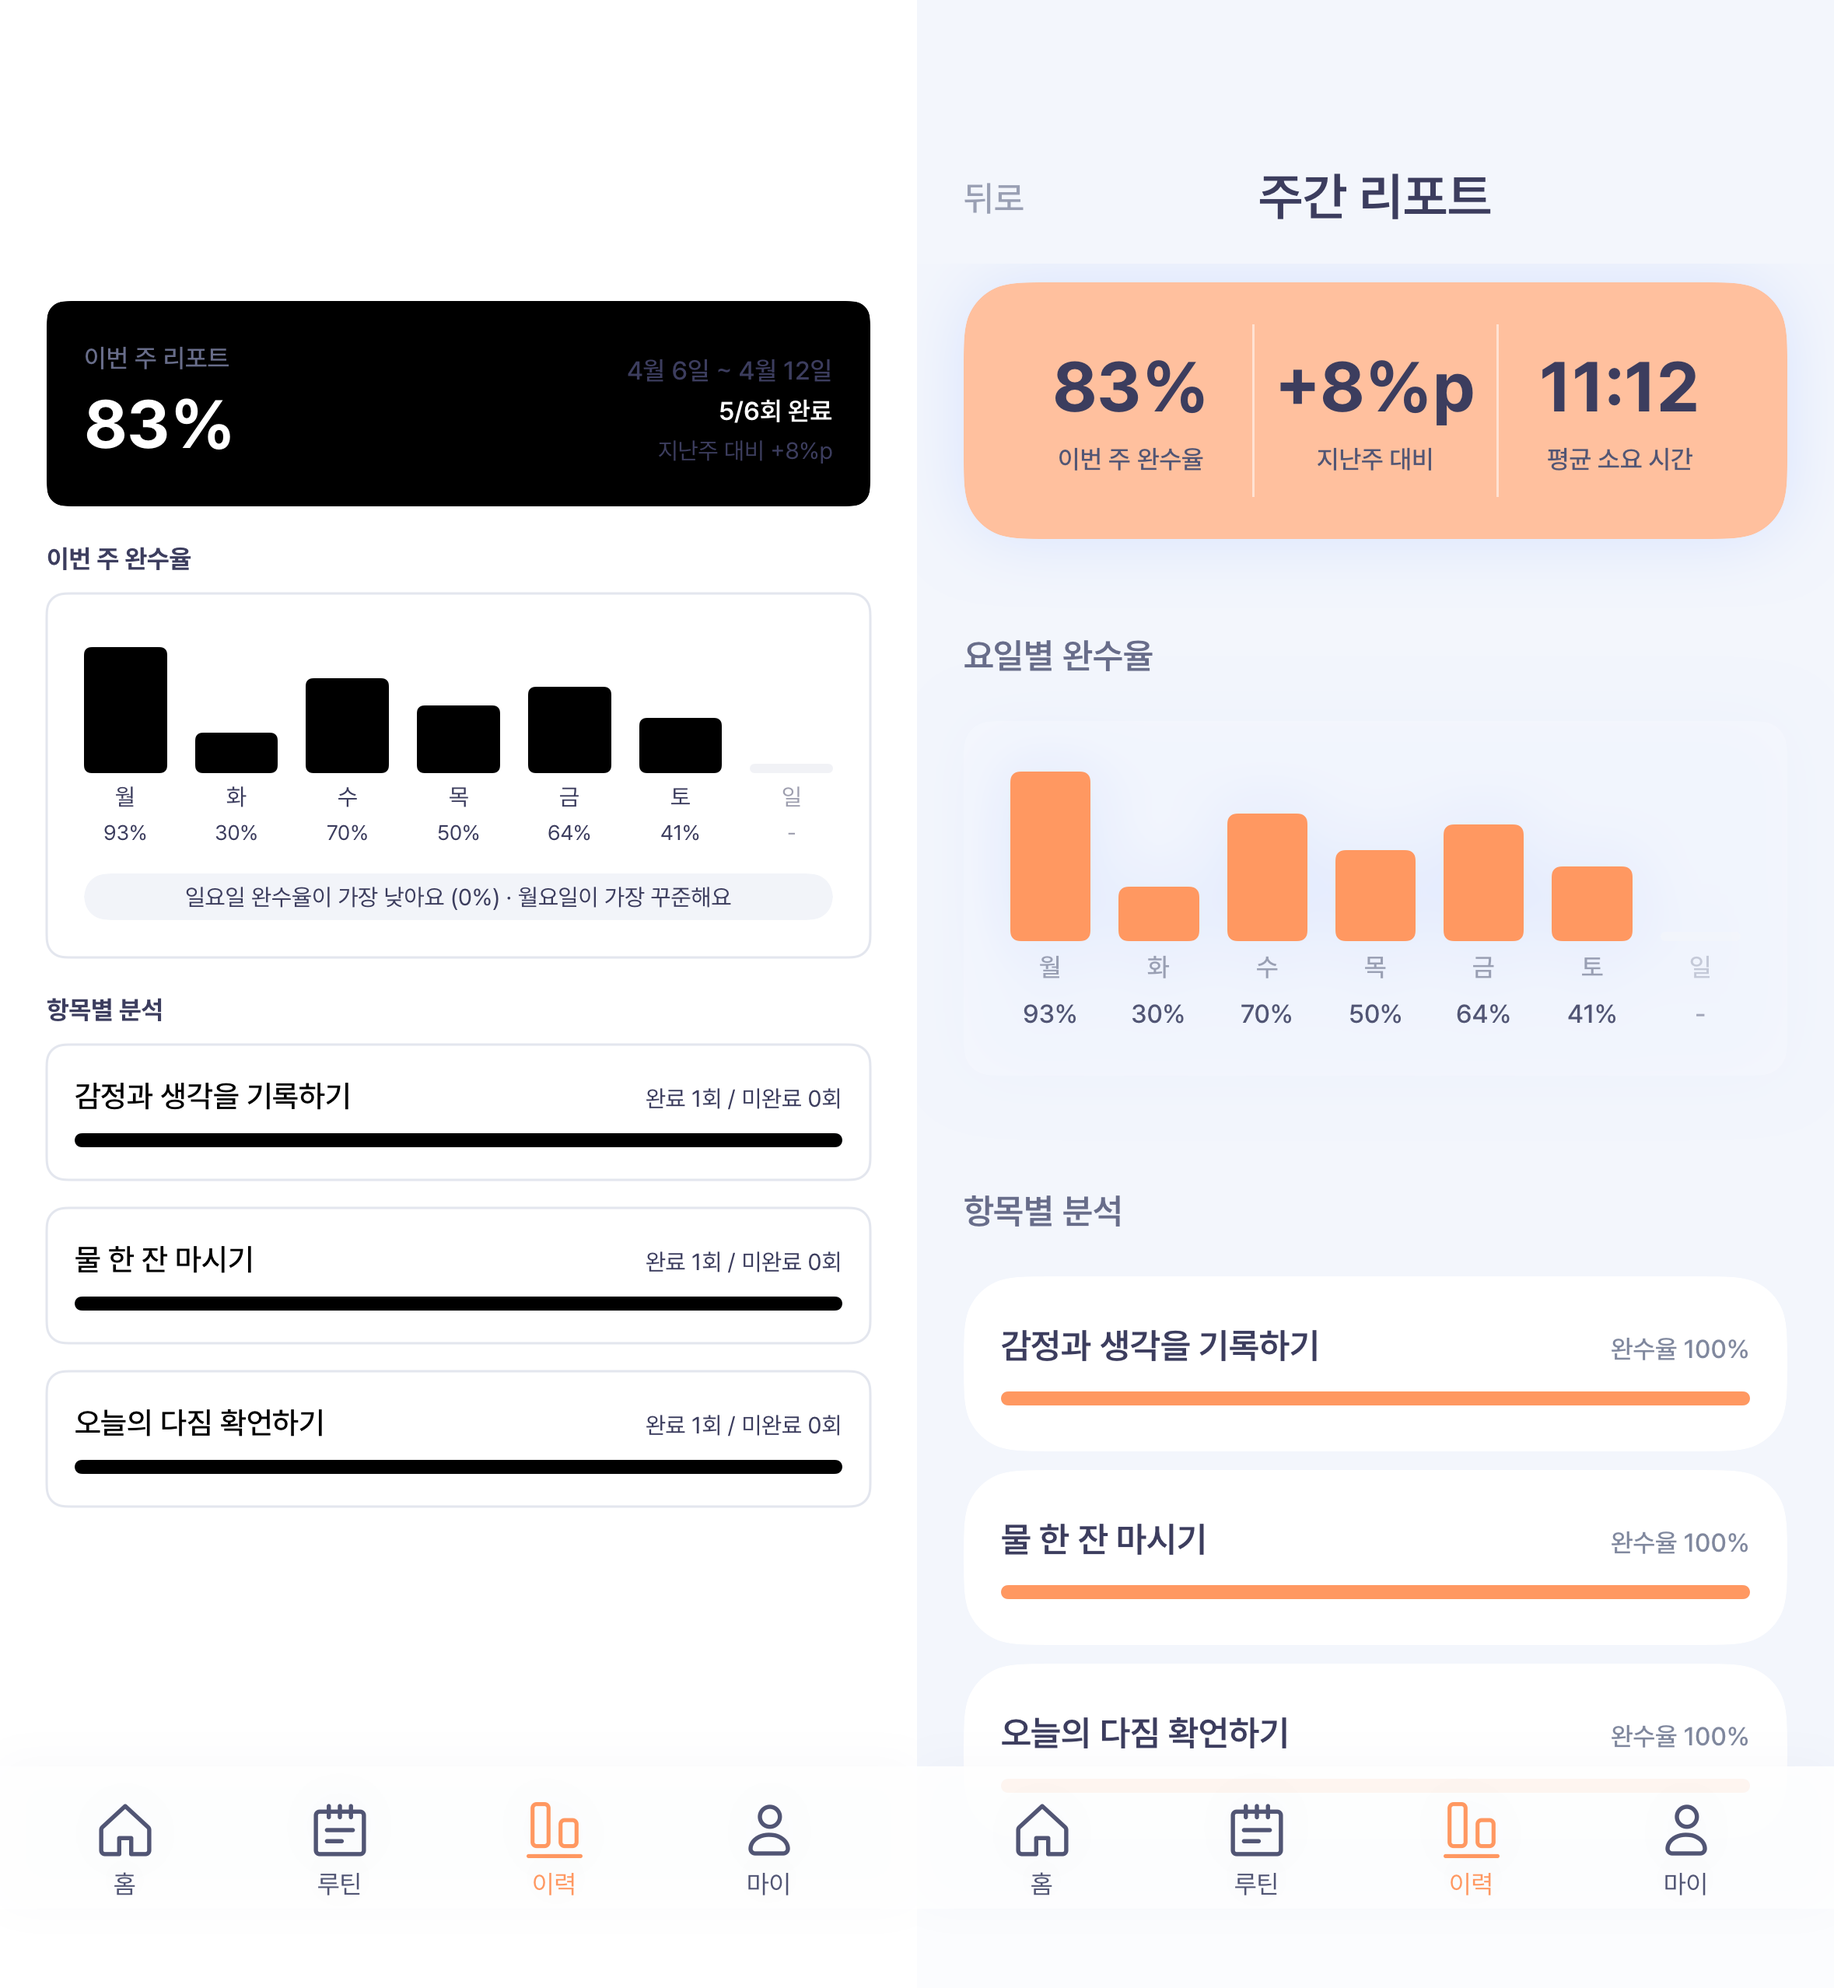
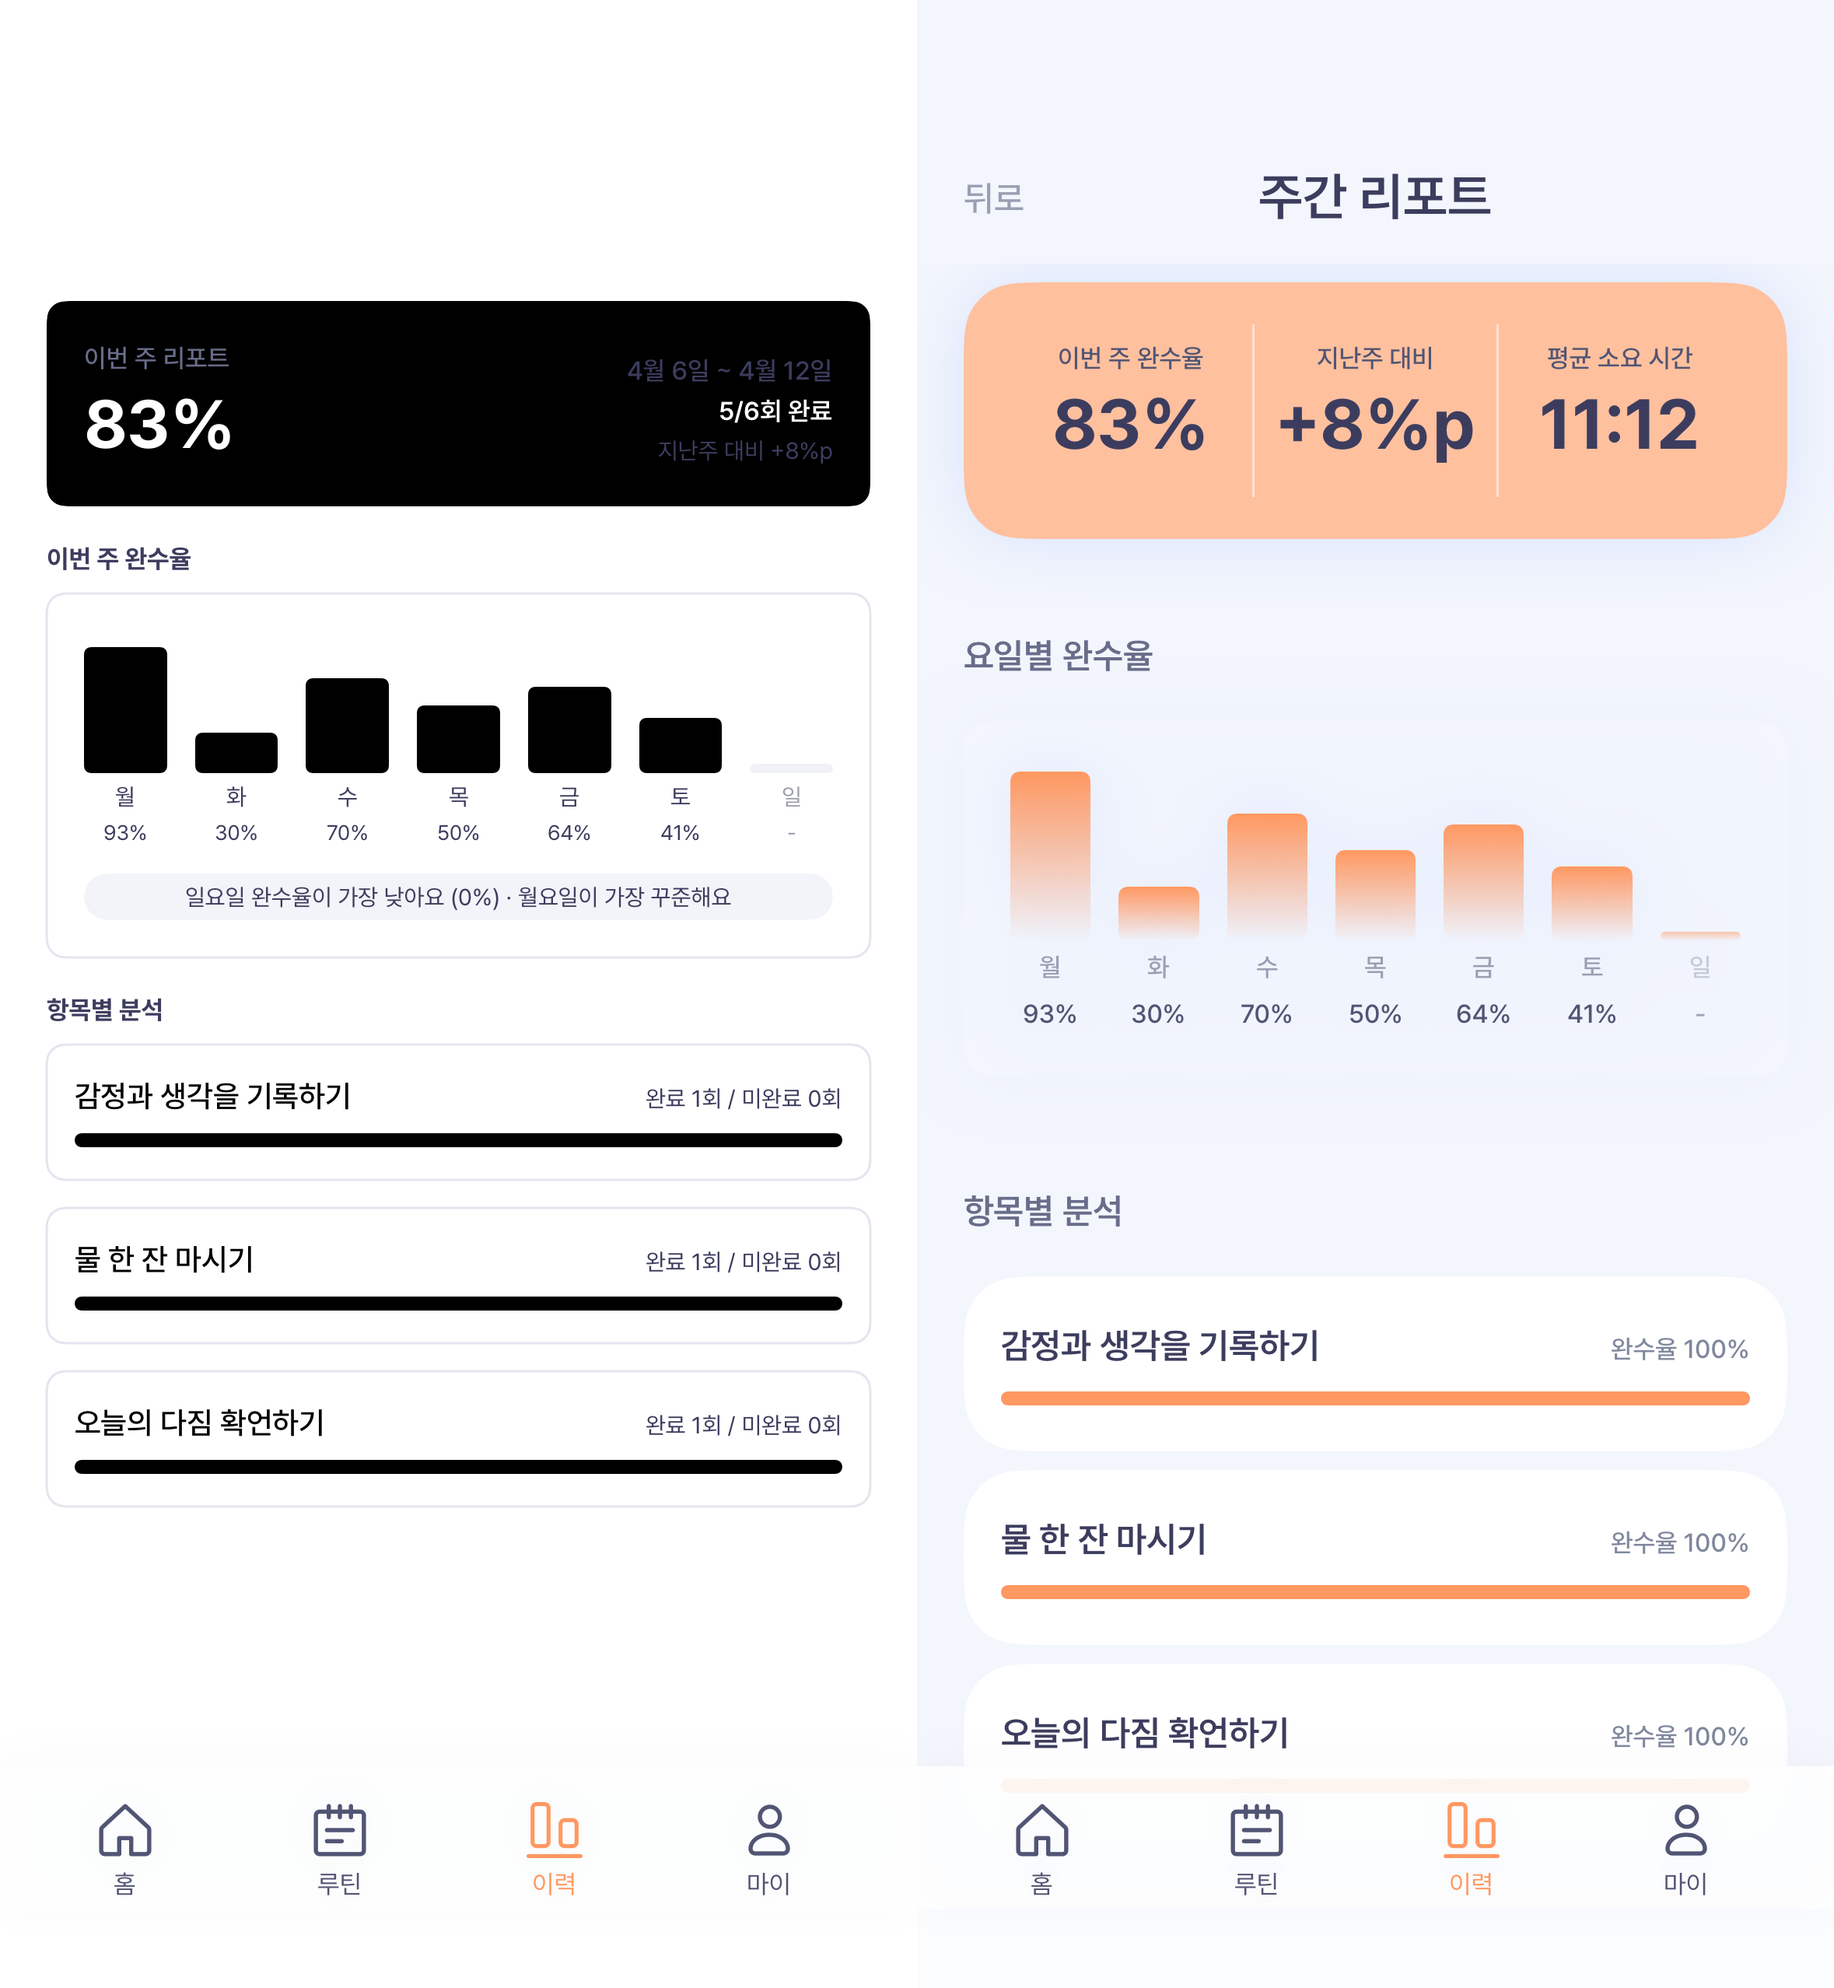
[Design] 주간 리포트 Figma 일치도 보완

diff --git a/Moru/Moru/Features/History/HistoryComponents.swift b/Moru/Moru/Features/History/HistoryComponents.swift
@@ -63,6 +63,7 @@ struct HistoryWeeklySummaryCard: View {
 
     var body: some View {
         HistoryReportSummaryCard(
+            compactTextOrder: .weeklyCompact,
             metrics: [
                 HistoryReportMetric(
                     title: HistoryCopy.weeklyCompletionRate,
@@ -114,9 +115,21 @@ struct HistoryReportMetric: Identifiable, Equatable {
     }
 }
 
+enum HistoryReportMetricTextOrder: Equatable {
+    case titleThenValue
+    case valueThenTitle
+
+    static let weeklyCompact: Self = .titleThenValue
+
+    func resolved(for dynamicTypeSize: DynamicTypeSize) -> Self {
+        dynamicTypeSize.isAccessibilitySize ? .valueThenTitle : self
+    }
+}
+
 struct HistoryReportSummaryCard: View {
     @Environment(\.dynamicTypeSize) private var dynamicTypeSize
 
+    var compactTextOrder: HistoryReportMetricTextOrder = .valueThenTitle
     let metrics: [HistoryReportMetric]
 
     var body: some View {
@@ -164,21 +177,33 @@ struct HistoryReportSummaryCard: View {
                     .accessibilityHidden(true)
             }
 
-            Text(metric.value)
-                .historyOverviewTextStyle(.h1.weight(.bold))
-                .foregroundStyle(MoruPilotColor.textStrong)
-                .lineLimit(dynamicTypeSize.isAccessibilitySize ? nil : 1)
-                .minimumScaleFactor(0.62)
-                .fixedSize(horizontal: false, vertical: true)
-
-            Text(metric.title)
-                .historyOverviewTextStyle(.c1)
-                .foregroundStyle(MoruPilotColor.textPrimary)
-                .multilineTextAlignment(.center)
-                .fixedSize(horizontal: false, vertical: true)
+            if compactTextOrder.resolved(for: dynamicTypeSize) == .titleThenValue {
+                metricTitle(metric)
+                metricValue(metric)
+            } else {
+                metricValue(metric)
+                metricTitle(metric)
+            }
         }
         .frame(maxWidth: .infinity)
         .accessibilityElement(children: .combine)
+    }
+
+    private func metricTitle(_ metric: HistoryReportMetric) -> some View {
+        Text(metric.title)
+            .historyOverviewTextStyle(.c1)
+            .foregroundStyle(MoruPilotColor.textPrimary)
+            .multilineTextAlignment(.center)
+            .fixedSize(horizontal: false, vertical: true)
+    }
+
+    private func metricValue(_ metric: HistoryReportMetric) -> some View {
+        Text(metric.value)
+            .historyOverviewTextStyle(.h1.weight(.bold))
+            .foregroundStyle(MoruPilotColor.textStrong)
+            .lineLimit(dynamicTypeSize.isAccessibilitySize ? nil : 1)
+            .minimumScaleFactor(0.62)
+            .fixedSize(horizontal: false, vertical: true)
     }
 }
 
@@ -459,9 +484,14 @@ private struct HistoryWeekBar: View {
 
                 RoundedRectangle(cornerRadius: MoruPilotSpacing.four)
                     .fill(
-                        completion.completionRate > 0
-                            ? MoruPilotColor.accent
-                            : MoruPilotColor.progressTrack
+                        LinearGradient(
+                            colors: [
+                                MoruPilotColor.accent,
+                                MoruPilotColor.accent.opacity(0),
+                            ],
+                            startPoint: .top,
+                            endPoint: .bottom
+                        )
                     )
                     .frame(height: max(4, 78 * completion.completionRate))
 

diff --git a/Moru/MoruTests/HistoryDetailFigmaVisualTests.swift b/Moru/MoruTests/HistoryDetailFigmaVisualTests.swift
@@ -19,6 +19,16 @@ final class HistoryDetailFigmaVisualTests: XCTestCase {
     XCTAssertEqual(HistoryCopy.itemAnalysis, "항목별 분석")
     XCTAssertEqual(HistoryCopy.todayRecords, "오늘의 기록")
     XCTAssertEqual(HistoryCopy.itemResults, "항목별 결과")
+    XCTAssertEqual(
+      HistoryReportMetricTextOrder.weeklyCompact.resolved(for: .medium),
+      .titleThenValue
+    )
+    XCTAssertEqual(
+      HistoryReportMetricTextOrder.weeklyCompact.resolved(
+        for: .accessibility3
+      ),
+      .valueThenTitle
+    )
   }
 
   func testHistoryDetailStatesRenderDeterministicallyAtReferenceVariants() throws {

diff --git a/Moru/docs/figma-pilot-review-bundle/P5-history-common-state/design-qa.md b/Moru/docs/figma-pilot-review-bundle/P5-history-common-state/design-qa.md
@@ -20,6 +20,9 @@
   `6.57:1` 대비를 확보했다.
 - 타이포: Medium은 승인 hierarchy를 유지하고 AX3는 세로 reflow와 자연 높이를
   사용한다.
+- 주간 상세: Medium summary의 제목→값 순서와 요일 bar의
+  상단 coral→하단 투명 gradient를 승인 node와 맞췄고, AX3는 값→제목 세로
+  reflow를 유지한다.
 - 상태: loading, empty, error, permission-off, partial-data를 Medium/AX3에서
   확인했다.
 - 긴 한국어: 제목, transcript, 결과 row가 잘림 없이 줄바꿈되고 스크롤로
@@ -45,11 +48,11 @@
 - 공통 상태는 P5 외부 reference 대신 동일 fixture 2회 PNG byte 일치를
   deterministic quality gate로 사용한다.
 - Figma↔After mean absolute channel delta:
-  - weekly: `10.715841327682813` (gate ≤ 11)
+  - weekly: `9.404986788692376` (gate ≤ 11)
   - daily: `10.480339111005401` (gate ≤ 11)
   - run: `14.865340275315772` (gate ≤ 15)
 - Figma↔After differing pixel percentage:
-  - weekly: `55.26321891179114` (gate ≤ 56)
+  - weekly: `55.064076961164886` (gate ≤ 56)
   - daily: `73.07066042576362` (gate ≤ 74)
   - run: `73.17870194601888` (gate ≤ 74)
 - Before↔After differing pixel range:

diff --git a/Moru/docs/figma-pilot-review-bundle/P5-history-common-state/delta.md b/Moru/docs/figma-pilot-review-bundle/P5-history-common-state/delta.md
@@ -4,7 +4,10 @@
 
 - 주간 리포트의 검은 summary를 coral 3-metric card로 교체하고 실제 주간
   완수율, 전주 대비 percentage point, 완료 실행 평균 소요 시간을 표시한다.
-- 요일별 완수율을 Figma bar chart와 같은 순서·색상·surface로 보정했다.
+- 주간 summary는 Medium에서 Figma와 같은 제목→값 순서를 사용하고,
+  AX3에서는 값→제목으로 reflow해 큰 글씨에서도 값과 레이블을 안전하게 읽는다.
+- 요일별 완수율을 Figma bar chart와 같은 순서·상단 coral→하단 투명 gradient·
+  surface로 보정했다.
 - 데일리/실행 상세는 `오늘의 기록`을 `항목별 결과`보다 먼저 배치했다.
 - 기록 card는 저장된 transcript만 표시한다. 저장되지 않은 step type·step 소요
   시간·copy/share 액션은 만들어내지 않는다.

diff --git a/Moru/docs/figma-pilot-review-bundle/P5-history-common-state/exceptions.md b/Moru/docs/figma-pilot-review-bundle/P5-history-common-state/exceptions.md
@@ -11,6 +11,9 @@
 - Figma의 copy/share와 완료 전용 `홈으로` CTA는 연결된 기능이 없어 추가하지
   않는다. 기존 back/navigation을 유지한다.
 - Figma 예시 항목명 대신 저장된 `RoutineRun` step title을 사용한다.
+- Figma 주간 summary의 metric value는 흰색이지만 coral `#FFC09E` 위
+  대비가 부족하다. 값의 위계는 유지하면서 WCAG AA를 충족하도록
+  `#3C3D5E`를 사용했으며 계산 대비는 `6.57:1`이다.
 
 ## 비교 정규화
 

diff --git a/Moru/docs/figma-pilot-review-bundle/P5-history-common-state/tests.md b/Moru/docs/figma-pilot-review-bundle/P5-history-common-state/tests.md
@@ -7,6 +7,9 @@
 - raw capture 44개, 반복 PNG byte mismatch 0
 - copy contract: 주간/데일리 제목, 요일별 완수율, 항목별 분석,
   오늘의 기록, 항목별 결과
+- weekly Medium: summary 제목→값 순서와 요일 bar의
+  상단 coral→하단 투명 gradient 확인
+- weekly AX3: summary 값→제목 reflow와 긴 한국어 clipping 없음 확인
 
 ## 공통 상태 회귀
 
